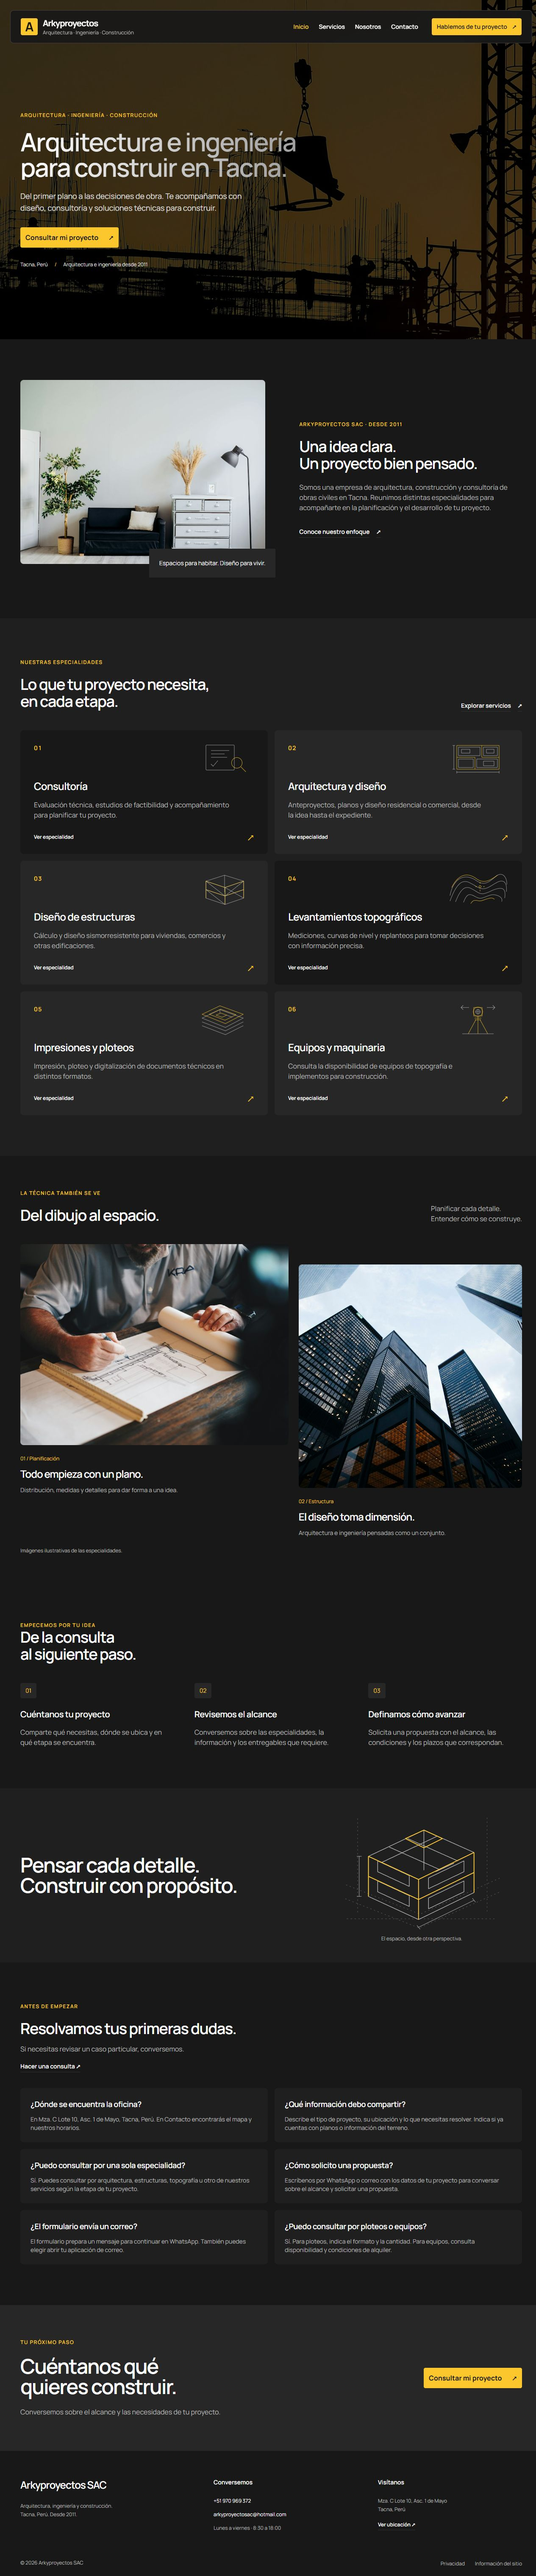
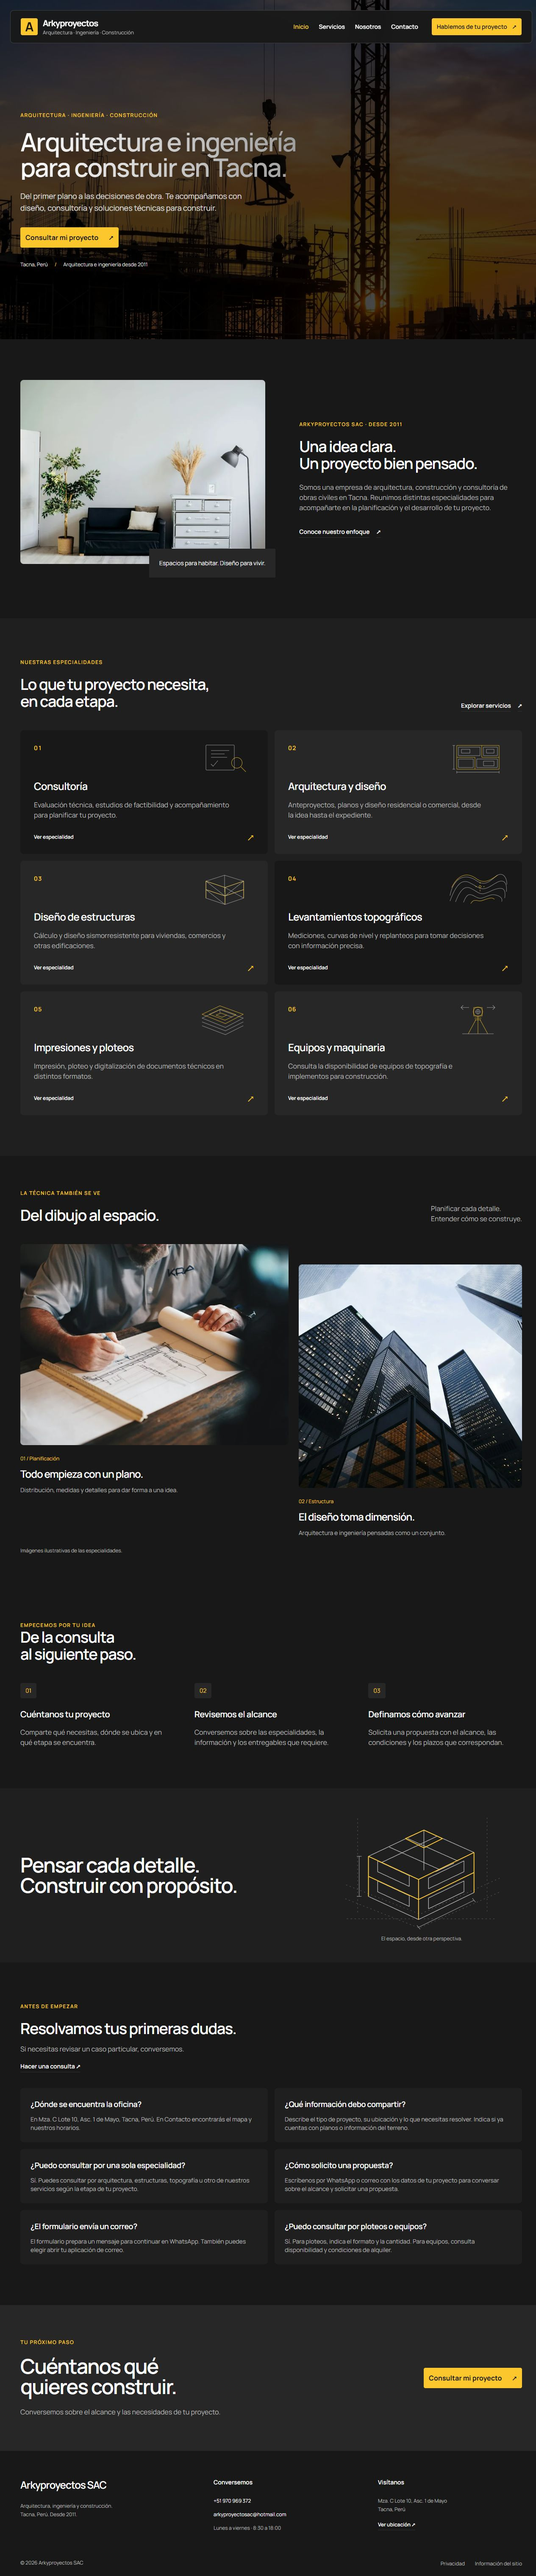
Optimize responsive images and replace homepage hero

Changed region(s): [[0.0, 0.0, 1.0, 0.1556], [0.8632, 0.5289, 0.8941, 0.56]]

diff --git a/index.html b/index.html
@@ -14,11 +14,11 @@
   <meta content="Arquitectura, diseño estructural, consultoría y topografía en Tacna. Cuéntanos tu proyecto y consulta con Arkyproyectos SAC." property="og:description"/>
   <meta content="Arkyproyectos SAC" property="og:site_name"/>
   <meta content="https://arkiproyectos.cmaquera.com/" property="og:url"/>
-  <meta content="https://arkiproyectos.cmaquera.com/images/hero-bg.jpg" property="og:image"/>
+  <meta content="https://arkiproyectos.cmaquera.com/images/hero-bg.jpg?v=20261026.1" property="og:image"/>
   <meta content="summary_large_image" name="twitter:card"/>
   <meta content="Arquitectura e ingeniería en Tacna | Arkyproyectos SAC" name="twitter:title"/>
   <meta content="Arquitectura, diseño estructural, consultoría y topografía en Tacna. Cuéntanos tu proyecto y consulta con Arkyproyectos SAC." name="twitter:description"/>
-  <meta content="https://arkiproyectos.cmaquera.com/images/hero-bg.jpg" name="twitter:image"/>
+  <meta content="https://arkiproyectos.cmaquera.com/images/hero-bg.jpg?v=20261026.1" name="twitter:image"/>
   <link href="https://arkiproyectos.cmaquera.com/" rel="canonical"/>
   <link href="favicon.svg" rel="icon" type="image/svg+xml"/>
   <link href="favicon.ico" rel="alternate icon"/>
@@ -26,7 +26,7 @@
   <link crossorigin="" href="https://fonts.gstatic.com" rel="preconnect"/>
   <link href="https://fonts.googleapis.com/css2?family=Manrope:wght@400;500;600;700&amp;display=swap" rel="stylesheet"/>
   <link href="css/bootstrap.css" rel="stylesheet"/>
-  <link href="css/style.css?v=20261026.4" rel="stylesheet"/>
+  <link href="css/style.css?v=20261026.5" rel="stylesheet"/>
  </head>
  <body>
   <a class="skip-link" href="#contenido">
@@ -75,7 +75,11 @@
   </header>
   <main id="contenido" tabindex="-1">
    <section aria-labelledby="page-title" class="hero hero-home hero-index">
-    <img alt="" class="hero-image" fetchpriority="high" src="images/hero-bg.jpg"/>
+    <picture>
+     <source media="(max-width: 640px)" sizes="100vw" srcset="images/optimized/hero-bg-mobile-480.webp?v=20261026.1 480w, images/optimized/hero-bg-mobile-864.webp?v=20261026.1 864w" type="image/webp"/>
+     <source sizes="100vw" srcset="images/optimized/hero-bg-1440.webp 1440w, images/optimized/hero-bg-1920.webp 1920w, images/optimized/hero-bg-2752.webp 2752w" type="image/webp"/>
+     <img alt="" class="hero-image" decoding="async" fetchpriority="high" height="1536" src="images/hero-bg.jpg?v=20261026.1" width="2752"/>
+    </picture>
     <div class="hero-shade">
     </div>
     <div class="container hero-content">
@@ -108,7 +112,10 @@
    <section class="section intro">
     <div class="container intro-grid">
      <div class="intro-image reveal">
-      <img alt="Interior con sofá, vegetación y mobiliario de líneas simples" height="800" loading="lazy" src="images/architecture-modern.jpg" width="1200"/>
+      <picture>
+       <source sizes="(max-width: 640px) calc(100vw - 48px), (max-width: 1280px) 50vw, 640px" srcset="images/optimized/architecture-modern-480.webp 480w, images/optimized/architecture-modern-800.webp 800w, images/optimized/architecture-modern-1200.webp 1200w" type="image/webp"/>
+       <img alt="Interior con sofá, vegetación y mobiliario de líneas simples" decoding="async" height="801" loading="lazy" src="images/architecture-modern.jpg" width="1200"/>
+      </picture>
       <span>
        Espacios para habitar. Diseño para vivir.
       </span>
@@ -309,7 +316,10 @@
      </div>
      <div class="reference-grid">
       <figure class="reference-image reveal">
-       <img alt="Profesional dibujando una planta arquitectónica sobre papel" height="675" loading="lazy" src="images/about-image.jpg" width="1200"/>
+       <picture>
+        <source sizes="(max-width: 640px) calc(100vw - 48px), (max-width: 1280px) 50vw, 640px" srcset="images/optimized/about-image-480.webp 480w, images/optimized/about-image-800.webp 800w, images/optimized/about-image-1200.webp 1200w" type="image/webp"/>
+        <img alt="Profesional dibujando una planta arquitectónica sobre papel" decoding="async" height="675" loading="lazy" src="images/about-image.jpg" width="1200"/>
+       </picture>
        <figcaption>
         <span class="reference-index">
          01 / Planificación
@@ -323,7 +333,10 @@
        </figcaption>
       </figure>
       <figure class="reference-image reveal">
-       <img alt="Vista hacia arriba de fachadas y estructuras de edificios" height="800" loading="lazy" src="images/services-hero.jpg" width="1200"/>
+       <picture>
+        <source sizes="(max-width: 640px) calc(100vw - 48px), (max-width: 1280px) 50vw, 640px" srcset="images/optimized/services-hero-480.webp 480w, images/optimized/services-hero-800.webp 800w, images/optimized/services-hero-1200.webp 1200w" type="image/webp"/>
+        <img alt="Vista hacia arriba de fachadas y estructuras de edificios" decoding="async" height="800" loading="lazy" src="images/services-hero.jpg" width="1200"/>
+       </picture>
        <figcaption>
         <span class="reference-index">
          02 / Estructura

diff --git a/nosotros.html b/nosotros.html
@@ -26,7 +26,7 @@
   <link crossorigin="" href="https://fonts.gstatic.com" rel="preconnect"/>
   <link href="https://fonts.googleapis.com/css2?family=Manrope:wght@400;500;600;700&amp;display=swap" rel="stylesheet"/>
   <link href="css/bootstrap.css" rel="stylesheet"/>
-  <link href="css/style.css?v=20261026.4" rel="stylesheet"/>
+  <link href="css/style.css?v=20261026.5" rel="stylesheet"/>
  </head>
  <body>
   <a class="skip-link" href="#contenido">
@@ -75,7 +75,10 @@
   </header>
   <main id="contenido" tabindex="-1">
    <section aria-labelledby="page-title" class="hero hero-inner hero-nosotros">
-    <img alt="" class="hero-image" fetchpriority="high" src="images/about-hero.jpg"/>
+    <picture>
+     <source sizes="(max-width: 640px) 800px, 100vw" srcset="images/optimized/about-hero-480.webp 480w, images/optimized/about-hero-800.webp 800w, images/optimized/about-hero-1200.webp 1200w" type="image/webp"/>
+     <img alt="" class="hero-image" decoding="async" fetchpriority="high" height="795" src="images/about-hero.jpg" width="1200"/>
+    </picture>
     <div class="hero-shade">
     </div>
     <div class="container hero-content">
@@ -131,7 +134,10 @@
      <div class="row row-bottom-padded-md">
       <div class="col-md-12 reveal">
        <figure>
-        <img alt="Profesional desarrollando un diseño arquitectónico" class="img-responsive" src="images/about-image.jpg"/>
+        <picture>
+         <source sizes="(max-width: 640px) calc(100vw - 48px), (max-width: 1280px) calc(100vw - 96px), 1184px" srcset="images/optimized/about-image-480.webp 480w, images/optimized/about-image-800.webp 800w, images/optimized/about-image-1200.webp 1200w" type="image/webp"/>
+         <img alt="Profesional desarrollando un diseño arquitectónico" class="img-responsive" decoding="async" height="675" loading="lazy" src="images/about-image.jpg" width="1200"/>
+        </picture>
        </figure>
       </div>
      </div>

diff --git a/informacion.html b/informacion.html
@@ -14,11 +14,11 @@
   <meta content="Canales de contacto y alcance de la información publicada por Arkyproyectos SAC." property="og:description"/>
   <meta content="Arkyproyectos SAC" property="og:site_name"/>
   <meta content="https://arkiproyectos.cmaquera.com/informacion.html" property="og:url"/>
-  <meta content="https://arkiproyectos.cmaquera.com/images/hero-bg.jpg" property="og:image"/>
+  <meta content="https://arkiproyectos.cmaquera.com/images/hero-bg.jpg?v=20261026.1" property="og:image"/>
   <meta content="summary_large_image" name="twitter:card"/>
   <meta content="Información del sitio | Arkyproyectos SAC" name="twitter:title"/>
   <meta content="Canales de contacto y alcance de la información publicada por Arkyproyectos SAC." name="twitter:description"/>
-  <meta content="https://arkiproyectos.cmaquera.com/images/hero-bg.jpg" name="twitter:image"/>
+  <meta content="https://arkiproyectos.cmaquera.com/images/hero-bg.jpg?v=20261026.1" name="twitter:image"/>
   <link href="https://arkiproyectos.cmaquera.com/informacion.html" rel="canonical"/>
   <link href="favicon.svg" rel="icon" type="image/svg+xml"/>
   <link href="favicon.ico" rel="alternate icon"/>
@@ -26,7 +26,7 @@
   <link crossorigin="" href="https://fonts.gstatic.com" rel="preconnect"/>
   <link href="https://fonts.googleapis.com/css2?family=Manrope:wght@400;500;600;700&amp;display=swap" rel="stylesheet"/>
   <link href="css/bootstrap.css" rel="stylesheet"/>
-  <link href="css/style.css?v=20261026.4" rel="stylesheet"/>
+  <link href="css/style.css?v=20261026.5" rel="stylesheet"/>
  </head>
  <body>
   <a class="skip-link" href="#contenido">

diff --git a/privacidad.html b/privacidad.html
@@ -14,11 +14,11 @@
   <meta content="Información sobre el formulario de consulta y los servicios externos de este sitio." property="og:description"/>
   <meta content="Arkyproyectos SAC" property="og:site_name"/>
   <meta content="https://arkiproyectos.cmaquera.com/privacidad.html" property="og:url"/>
-  <meta content="https://arkiproyectos.cmaquera.com/images/hero-bg.jpg" property="og:image"/>
+  <meta content="https://arkiproyectos.cmaquera.com/images/hero-bg.jpg?v=20261026.1" property="og:image"/>
   <meta content="summary_large_image" name="twitter:card"/>
   <meta content="Privacidad | Arkyproyectos SAC" name="twitter:title"/>
   <meta content="Información sobre el formulario de consulta y los servicios externos de este sitio." name="twitter:description"/>
-  <meta content="https://arkiproyectos.cmaquera.com/images/hero-bg.jpg" name="twitter:image"/>
+  <meta content="https://arkiproyectos.cmaquera.com/images/hero-bg.jpg?v=20261026.1" name="twitter:image"/>
   <link href="https://arkiproyectos.cmaquera.com/privacidad.html" rel="canonical"/>
   <link href="favicon.svg" rel="icon" type="image/svg+xml"/>
   <link href="favicon.ico" rel="alternate icon"/>
@@ -26,7 +26,7 @@
   <link crossorigin="" href="https://fonts.gstatic.com" rel="preconnect"/>
   <link href="https://fonts.googleapis.com/css2?family=Manrope:wght@400;500;600;700&amp;display=swap" rel="stylesheet"/>
   <link href="css/bootstrap.css" rel="stylesheet"/>
-  <link href="css/style.css?v=20261026.4" rel="stylesheet"/>
+  <link href="css/style.css?v=20261026.5" rel="stylesheet"/>
  </head>
  <body>
   <a class="skip-link" href="#contenido">

diff --git a/404.html b/404.html
@@ -14,11 +14,11 @@
   <meta content="Vuelve al inicio o consulta los servicios de Arkyproyectos SAC." property="og:description"/>
   <meta content="Arkyproyectos SAC" property="og:site_name"/>
   <meta content="https://arkiproyectos.cmaquera.com/404.html" property="og:url"/>
-  <meta content="https://arkiproyectos.cmaquera.com/images/hero-bg.jpg" property="og:image"/>
+  <meta content="https://arkiproyectos.cmaquera.com/images/hero-bg.jpg?v=20261026.1" property="og:image"/>
   <meta content="summary_large_image" name="twitter:card"/>
   <meta content="Página no encontrada | Arkyproyectos SAC" name="twitter:title"/>
   <meta content="Vuelve al inicio o consulta los servicios de Arkyproyectos SAC." name="twitter:description"/>
-  <meta content="https://arkiproyectos.cmaquera.com/images/hero-bg.jpg" name="twitter:image"/>
+  <meta content="https://arkiproyectos.cmaquera.com/images/hero-bg.jpg?v=20261026.1" name="twitter:image"/>
   <link href="https://arkiproyectos.cmaquera.com/404.html" rel="canonical"/>
   <link href="favicon.svg" rel="icon" type="image/svg+xml"/>
   <link href="favicon.ico" rel="alternate icon"/>
@@ -26,7 +26,7 @@
   <link crossorigin="" href="https://fonts.gstatic.com" rel="preconnect"/>
   <link href="https://fonts.googleapis.com/css2?family=Manrope:wght@400;500;600;700&amp;display=swap" rel="stylesheet"/>
   <link href="css/bootstrap.css" rel="stylesheet"/>
-  <link href="css/style.css?v=20261026.4" rel="stylesheet"/>
+  <link href="css/style.css?v=20261026.5" rel="stylesheet"/>
   <meta content="noindex" name="robots"/>
  </head>
  <body>

diff --git a/contacto.html b/contacto.html
@@ -26,7 +26,7 @@
   <link crossorigin="" href="https://fonts.gstatic.com" rel="preconnect"/>
   <link href="https://fonts.googleapis.com/css2?family=Manrope:wght@400;500;600;700&amp;display=swap" rel="stylesheet"/>
   <link href="css/bootstrap.css" rel="stylesheet"/>
-  <link href="css/style.css?v=20261026.4" rel="stylesheet"/>
+  <link href="css/style.css?v=20261026.5" rel="stylesheet"/>
   <link crossorigin="" href="https://unpkg.com/leaflet@1.9.4/dist/leaflet.css" integrity="sha256-p4NxAoJBhIIN+hmNHrzRCf9tD/miZyoHS5obTRR9BMY=" rel="stylesheet"/>
  </head>
  <body>
@@ -76,7 +76,10 @@
   </header>
   <main id="contenido" tabindex="-1">
    <section aria-labelledby="page-title" class="hero hero-inner hero-contacto">
-    <img alt="" class="hero-image" fetchpriority="high" src="images/contact-hero.jpg"/>
+    <picture>
+     <source sizes="(max-width: 640px) 800px, 100vw" srcset="images/optimized/contact-hero-480.webp 480w, images/optimized/contact-hero-800.webp 800w, images/optimized/contact-hero-1200.webp 1200w" type="image/webp"/>
+     <img alt="" class="hero-image" decoding="async" fetchpriority="high" height="801" src="images/contact-hero.jpg" width="1200"/>
+    </picture>
     <div class="hero-shade">
     </div>
     <div class="container hero-content">

diff --git a/servicios.html b/servicios.html
@@ -26,7 +26,7 @@
   <link crossorigin="" href="https://fonts.gstatic.com" rel="preconnect"/>
   <link href="https://fonts.googleapis.com/css2?family=Manrope:wght@400;500;600;700&amp;display=swap" rel="stylesheet"/>
   <link href="css/bootstrap.css" rel="stylesheet"/>
-  <link href="css/style.css?v=20261026.4" rel="stylesheet"/>
+  <link href="css/style.css?v=20261026.5" rel="stylesheet"/>
  </head>
  <body>
   <a class="skip-link" href="#contenido">
@@ -75,7 +75,10 @@
   </header>
   <main id="contenido" tabindex="-1">
    <section aria-labelledby="page-title" class="hero hero-inner hero-servicios">
-    <img alt="" class="hero-image" fetchpriority="high" src="images/services-hero.jpg"/>
+    <picture>
+     <source sizes="(max-width: 640px) 800px, 100vw" srcset="images/optimized/services-hero-480.webp 480w, images/optimized/services-hero-800.webp 800w, images/optimized/services-hero-1200.webp 1200w" type="image/webp"/>
+     <img alt="" class="hero-image" decoding="async" fetchpriority="high" height="800" src="images/services-hero.jpg" width="1200"/>
+    </picture>
     <div class="hero-shade">
     </div>
     <div class="container hero-content">

diff --git a/css/style.css b/css/style.css
@@ -1066,7 +1066,7 @@ a,button{
     padding:0 8px
   }
   .hero-home .hero-image{
-    object-position:65% center
+    object-position:60% center
   }
   .eyebrow{
     font-size:12px;

diff --git a/scripts/optimize-images.py b/scripts/optimize-images.py
@@ -1,0 +1,70 @@
+"""Prepare responsive photographs. SVG illustrations remain vector assets.
+
+Usage: python scripts/optimize-images.py --hero-source /path/to/original.png
+Requires Pillow with WebP support. Never enlarges the source photographs.
+"""
+
+import argparse
+from pathlib import Path
+
+from PIL import Image, ImageOps, features
+
+
+ROOT = Path(__file__).resolve().parents[1]
+IMAGES = ROOT / "images"
+OUTPUT = IMAGES / "optimized"
+
+
+def resized(image, width):
+    if width > image.width:
+        raise ValueError("Source photograph is smaller than the requested width")
+    return image.resize(
+        (width, round(image.height * width / image.width)), Image.Resampling.LANCZOS
+    )
+
+
+def webp_versions(image, name, widths, quality=82):
+    for width in sorted(set(min(width, image.width) for width in widths)):
+        destination = OUTPUT / f"{name}-{width}.webp"
+        resized(image, width).save(destination, "WEBP", quality=quality, method=6)
+        print(f"{destination.relative_to(ROOT)}: {destination.stat().st_size:,} bytes")
+
+
+def main():
+    parser = argparse.ArgumentParser(description=__doc__)
+    parser.add_argument("--hero-source", type=Path, required=True)
+    args = parser.parse_args()
+    if not features.check("webp"):
+        parser.error("This Pillow installation does not support WebP")
+    with Image.open(args.hero_source) as original:
+        hero = ImageOps.exif_transpose(original).convert("RGB")
+    if hero.width < 2752 or hero.height < 1536:
+        parser.error("Use the full resolution hero original, at least 2752 × 1536")
+
+    OUTPUT.mkdir(parents=True, exist_ok=True)
+    webp_versions(hero, "hero-bg", [1440, 1920, 2752], quality=84)
+
+    # Match the existing mobile focus at 60%, while avoiding unused side pixels.
+    mobile_width = min(864, int(hero.height * 9 / 16))
+    mobile_height = round(mobile_width * 16 / 9)
+    mobile = ImageOps.fit(
+        hero, (mobile_width, mobile_height), Image.Resampling.LANCZOS,
+        centering=(0.60, 0.5),
+    )
+    webp_versions(mobile, "hero-bg-mobile", [480, mobile_width], quality=84)
+
+    # JPEG is the fallback for the hero and the widely compatible social image.
+    resized(hero, 1920).save(
+        IMAGES / "hero-bg.jpg", "JPEG", quality=85, optimize=True, progressive=True
+    )
+
+    for name in [
+        "architecture-modern", "about-image", "services-hero", "about-hero", "contact-hero"
+    ]:
+        with Image.open(IMAGES / f"{name}.jpg") as original:
+            photo = ImageOps.exif_transpose(original).convert("RGB")
+        webp_versions(photo, name, [480, 800, photo.width])
+
+
+if __name__ == "__main__":
+    main()

diff --git a/README.md b/README.md
@@ -90,6 +90,27 @@ Abre `http://127.0.0.1:8080/`. No requiere compilación ni backend.
 
 `js/main.js` y `js/contact.js` usan JavaScript nativo. Las librerías antiguas permanecen en el repositorio, pero ya no se cargan. Los archivos Sass heredados tampoco generan la hoja de estilos actual.
 
+## Fotografías optimizadas
+
+Las fotografías visibles usan `<picture>` con WebP y alternativas JPEG. `srcset` y `sizes` permiten elegir un tamaño adecuado a la pantalla. Las imágenes fuera de la portada cargan de forma diferida; los fondos principales mantienen prioridad alta. Las ilustraciones técnicas siguen en SVG.
+
+El fondo de Inicio se preparó desde el original de 2752 × 1536 píxeles, sin ampliar la imagen:
+
+| Variante del fondo | Ancho | Peso aproximado |
+| --- | --- | --- |
+| Móvil | 480 / 864 px | 62 / 133 KB |
+| Escritorio | 1440 / 1920 / 2752 px | 126 / 193 / 318 KB |
+
+El navegador descarga la variante que selecciona, no todas. El recorte móvil conserva el punto de atención del fondo. El JPEG de respaldo también sirve para las vistas previas al compartir enlaces. El PNG original de 6,16 MB no se incluye como recurso de la web.
+
+Los archivos preparados se encuentran en `images/optimized`. Para regenerarlos con Pillow y soporte WebP:
+
+```powershell
+python scripts/optimize-images.py --hero-source "C:\ruta\a\la\imagen-original.png"
+```
+
+El original debe medir al menos 2752 × 1536 píxeles. El script no modifica las demás fotografías JPEG de origen ni las capturas históricas de la comparación.
+
 ## Formulario
 
 El formulario valida nombre, correo y mensaje. Al continuar prepara un enlace a WhatsApp con la consulta. El visitante confirma el envío en WhatsApp; la web no confirma la entrega del mensaje.
